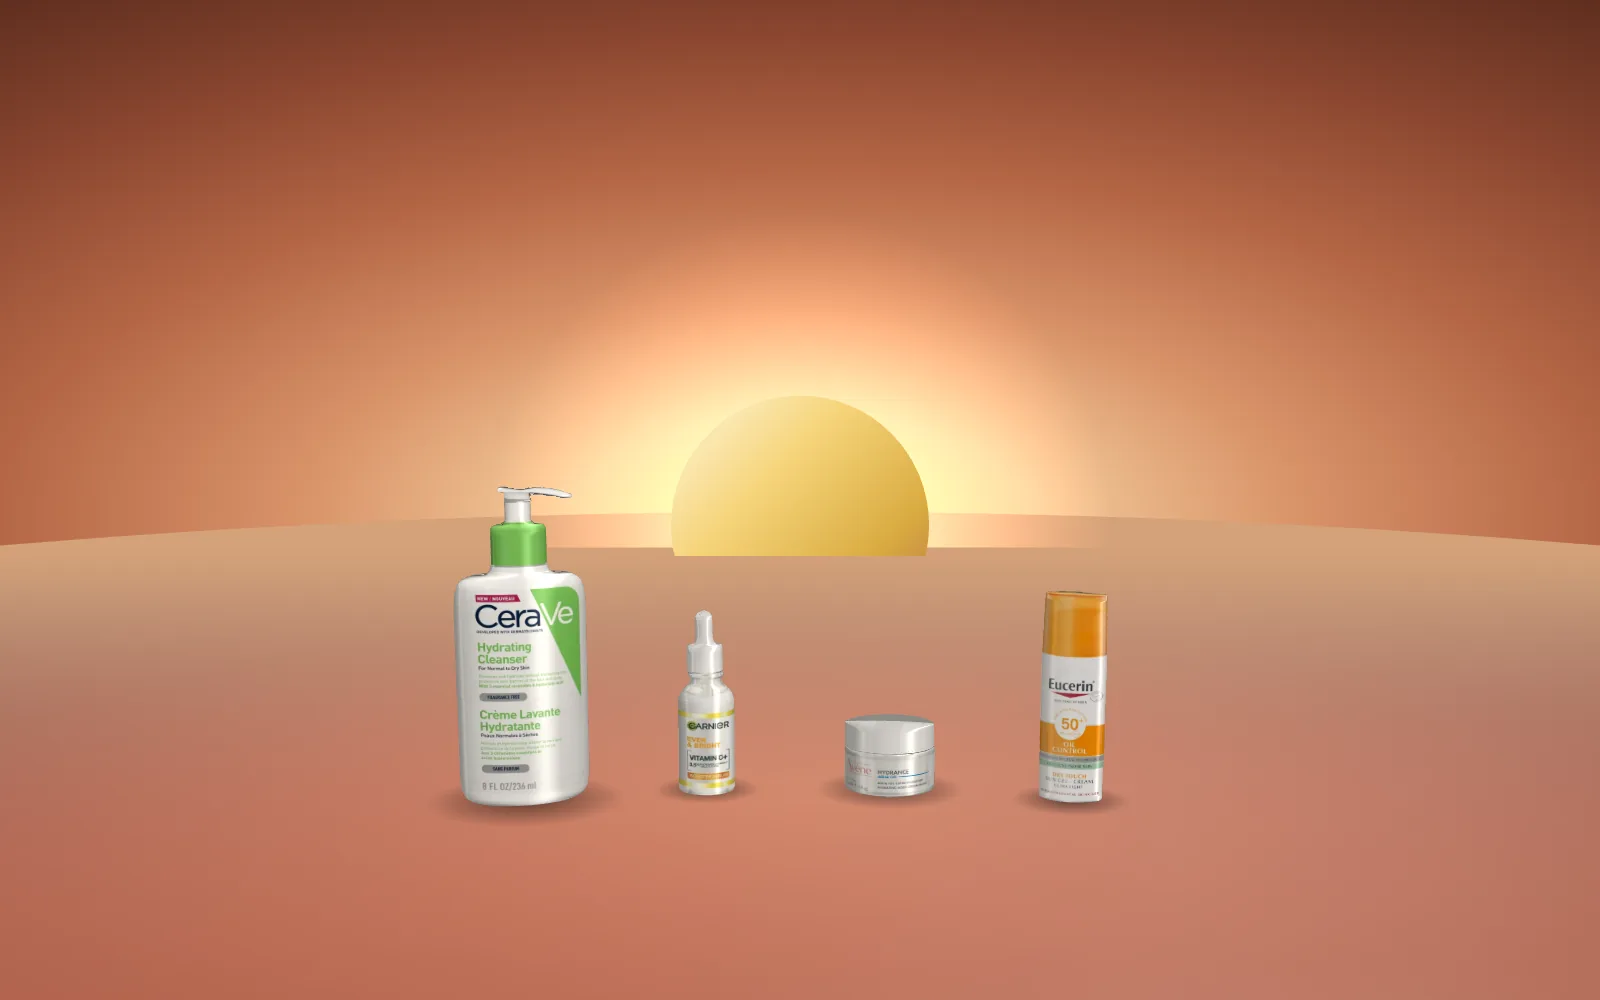
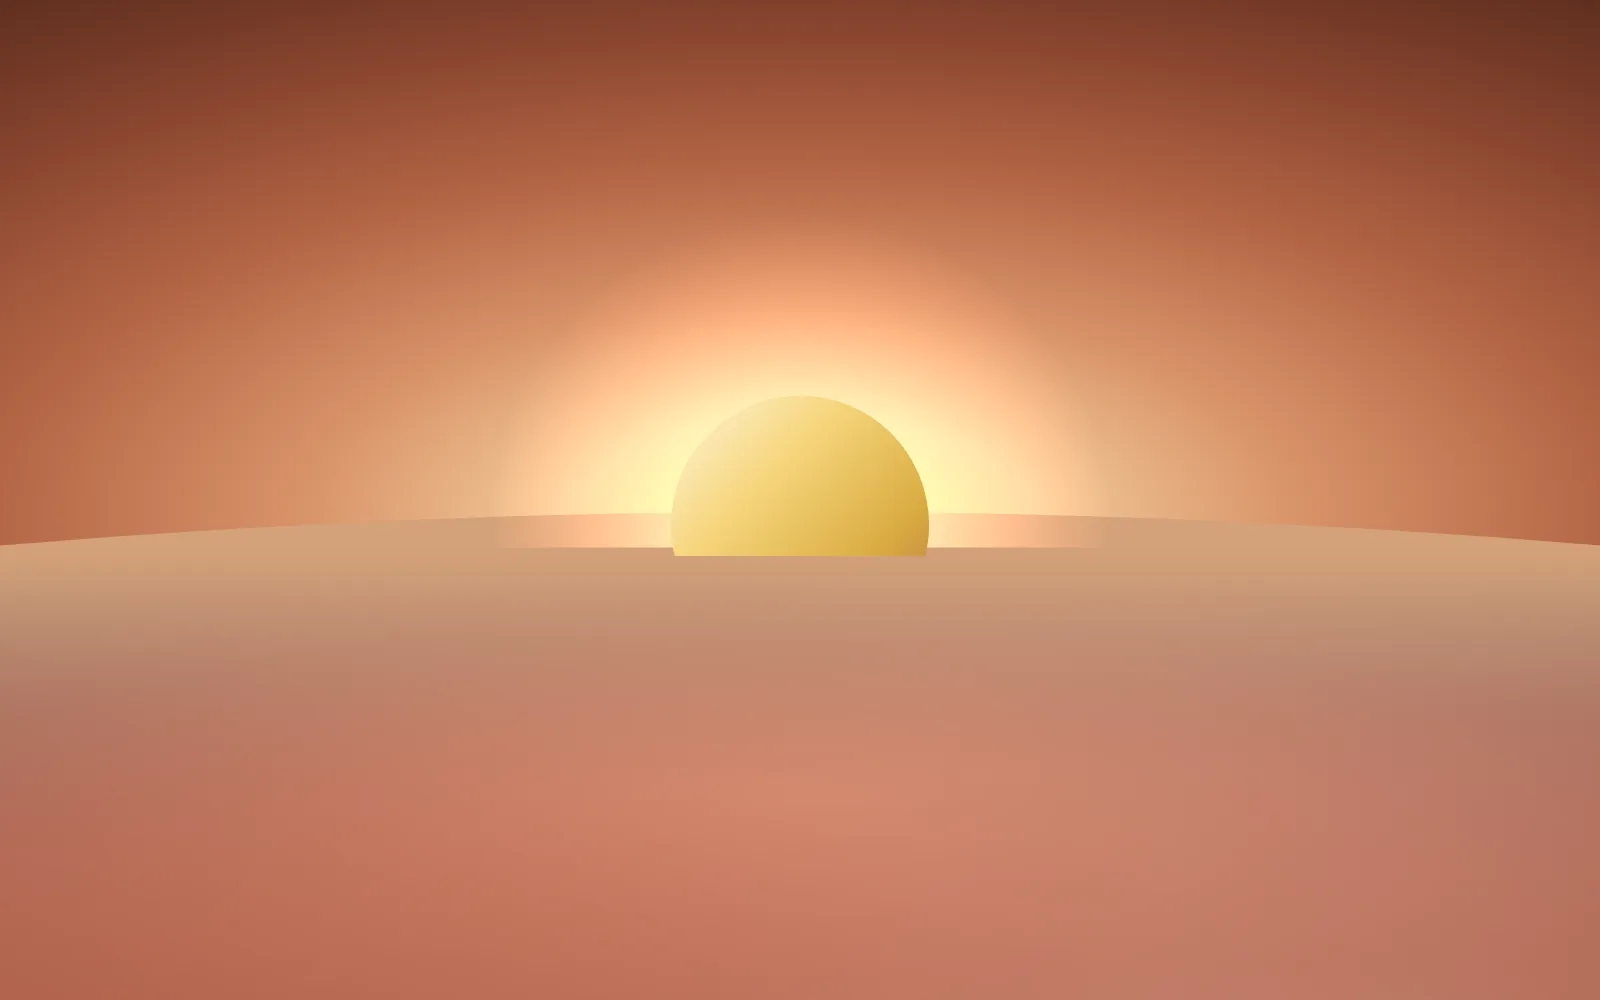
Take the four products off the cover
Claude-Session: https://claude.ai/code/session_01KMs4NPwcWgvPGFoYvY91uh

diff --git a/cover.js b/cover.js
@@ -1,11 +1,10 @@
 /* =========================================================
-   NexEra Skin cover: "Your routine, in four steps", in 3D.
-   A drop (the dot from the NexEra logo) falls, the four featured products
-   (solid packs made from the real product photos, stock only, in their real
-   relative sizes) rise one by one and each does a small move,
+   NexEra Skin cover, in 3D: a drop (the dot from the NexEra logo) falls,
    the sun rises, and NEXERA grows out of it.
+   (The four products were taken off the cover at the owner's request,
+   2026-11-22: they looked artificial. The scroll story keeps its 3D packs.)
    ========================================================= */
-import { THREE, makeRenderer, makeScene, makeShadow, packProduct, packOf, tint } from './studio.js';
+import { THREE, makeRenderer, makeScene } from './studio.js';
 
 const gsap = window.gsap, ScrollTrigger = window.ScrollTrigger;
 const $ = (s, c) => (c || document).querySelector(s);
@@ -14,19 +13,15 @@ const lerp = (a, b, t) => a + (b - a) * t;
 const clamp01 = t => Math.min(1, Math.max(0, t));
 const ease = t => 1 - Math.pow(1 - t, 3);
 
-const DATA = window.NEXERA_SKIN;
 /* Colours: golden hour in terracotta, nude, cream and gold. */
 const C = {
   fogNight: '#3a1d15', fogDawn: '#e3ad82', floorTint: '#ffd2ad', floorMetal: 0.12,
   floor: [[0, '#8a5038'], [0.4, '#61341f'], [1, '#3a1e13']],
   sun: [[0, '#fff6dc'], [0.35, '#f6d47a'], [0.7, '#d9ab41'], [1, '#b46645']],
   glow: [[0, 'rgba(246,212,122,0.9)'], [0.35, 'rgba(242,202,153,0.4)'], [1, 'rgba(180,102,69,0)']],
-  ripple: '#f2ca99', drip: '#d9ab41', dripGlow: '#f2b45a',
-  rim: [0.78, 0.6, 0.52, 0.42], night: [0.55, 0.46, 0.42]
+  ripple: '#f2ca99',
+  rim: [0.78, 0.6, 0.52, 0.42]
 };
-const STEP = {}; DATA.STEPS.forEach(s => { STEP[s.id] = s; });
-/* one featured product per step, in routine order */
-const SPECS = DATA.FEATURED.map(p => ({ p, n: STEP[p.step].n, name: STEP[p.step].name }));
 
 function gradientTexture(stops, radial) {
   const c = document.createElement('canvas'); c.width = c.height = 256;
@@ -75,21 +70,7 @@ export async function start(hero, opts = {}) {
   dropGlow.scale.set(2.2, 2.2, 1); drop.add(dropGlow, dropBall); scene.add(drop);
 
   const ringMat = () => new THREE.MeshBasicMaterial({ color: C.ripple, transparent: true, opacity: 0, blending: THREE.AdditiveBlending, depthWrite: false, toneMapped: false });
-  const ripples = [0, 1, 2, 3, 4].map(() => { const m = new THREE.Mesh(new THREE.RingGeometry(0.92, 1, 72), ringMat()); m.rotation.x = -Math.PI / 2; m.position.y = 0.01; scene.add(m); return m; });
-
-  /* real relative sizes: the tallest pack is 4.3 units, the others follow their size in mm */
-  const tallest = Math.max(...SPECS.map(spec => (packOf(spec.p).dims || { h: 150 }).h));
-  const stands = await Promise.all(SPECS.map(spec => packProduct(spec.p, { mmScale: 4.3 / tallest, height: 3 })));
-  const items = SPECS.map((spec, i) => {
-    const stand = stands[i], prod = stand.userData.product;
-    const holder = new THREE.Group(); holder.add(stand); scene.add(holder);
-    const shadow = makeShadow(Math.max(stand.userData.width, stand.userData.depth) * 0.62 + 0.25, 0.55); scene.add(shadow);
-    return { spec, stand, prod, holder, shadow, h: stand.userData.height, base: new THREE.Vector3(), scale: 1, rest: 0 };
-  });
-  const bubbleMat = new THREE.MeshPhysicalMaterial({ color: '#ffffff', roughness: 0.05, transparent: true, opacity: 0.75, clearcoat: 1, transmission: 0 });
-  const bubbles = [0, 1, 2, 3].map(i => { const b = new THREE.Mesh(new THREE.SphereGeometry(0.09 + i * 0.025, 20, 20), bubbleMat); b.visible = false; scene.add(b); return b; });
-  const drip = new THREE.Mesh(new THREE.SphereGeometry(0.075, 20, 20), new THREE.MeshPhysicalMaterial({ color: C.drip, emissive: C.dripGlow, emissiveIntensity: 0.3, roughness: 0.1, clearcoat: 1 }));
-  drip.visible = false; scene.add(drip);
+  const ripples = [0].map(() => { const m = new THREE.Mesh(new THREE.RingGeometry(0.92, 1, 72), ringMat()); m.rotation.x = -Math.PI / 2; m.position.y = 0.01; scene.add(m); return m; });
 
   /* ----- layout for phones (portrait) and wider screens ----- */
   const g = { W: 1, H: 1, portrait: false, target: new THREE.Vector3(), d: 20 };
@@ -97,13 +78,11 @@ export async function start(hero, opts = {}) {
     wide: { x: [-3.75, -1.3, 1.25, 3.7], z: [0.2, -0.35, -0.35, 0.2], s: [1, 1, 1, 1], rest: [0.3, 0.12, -0.12, -0.3], screenY: 0.665, fill: 0.31 },
     tall: { x: [-2.25, -0.78, 0.75, 2.25], z: [0.25, -0.2, -0.25, 0.25], s: [0.6, 0.6, 0.6, 0.6], rest: [0.3, 0.12, -0.12, -0.3], screenY: 0.61, fill: 0.2 }
   };
-  const stepEls = $$('.hero__step', hero);
   function layout() {
     g.W = hero.clientWidth; g.H = hero.clientHeight; g.portrait = g.W / g.H < 0.8;
     renderer.setSize(g.W, g.H, false);
     cam.aspect = g.W / g.H;
     const L = g.portrait ? LAYOUT.tall : LAYOUT.wide;
-    items.forEach((it, i) => { it.base.set(L.x[i], 0, L.z[i]); it.scale = L.s[i]; it.rest = L.rest[i]; it.holder.scale.setScalar(it.scale); });
     const rowW = (g.portrait ? 6.0 : 9.2), prodH = 4.4 * (g.portrait ? 0.64 : 1);
     const vt = Math.tan(THREE.MathUtils.degToRad(cam.fov / 2));
     const dH = prodH / L.fill / (2 * vt), dW = rowW * 1.12 / (2 * vt * cam.aspect);
@@ -134,21 +113,15 @@ export async function start(hero, opts = {}) {
   function toScreen(v) { const p = v.clone().project(cam); return { x: (p.x + 1) / 2 * g.W, y: (1 - p.y) / 2 * g.H }; }
 
   /* ----- state the timeline animates ----- */
-  const S = { fall: 0, land: 0, rise: [0, 0, 0, 0], label: [0, 0, 0, 0], press: 0, bubbles: 0, lift: 0, dripT: 0, lid: 0, hop: 0, sun: 0, warm: 0, settle: 0, flood: 0, exit: 0, ripple: [0, 0, 0, 0, 0] };
+  const S = { fall: 0, land: 0, sun: 0, warm: 0, settle: 0, flood: 0, ripple: [0] };
   let t0 = performance.now();
 
   function draw(now) {
-    const t = (now - t0) / 1000;
-    const idle = S.settle;
-
     /* light warms as the sun rises */
     skyDawn.style.opacity = S.warm.toFixed(3);
     scene.fog.color.copy(fogNight).lerp(fogDawn, S.warm * 0.85);
     rim.intensity = 1.2 + S.warm * 1.6; rim.color.setRGB(1, lerp(C.rim[0], C.rim[1], S.warm), lerp(C.rim[2], C.rim[3], S.warm));
     key.intensity = 1.3 + S.warm * 0.4;
-    /* the photos are dim and blue at night and take on the morning light */
-    const w = S.warm;
-    items.forEach(it => tint(it.stand, lerp(C.night[0], 1, w), lerp(C.night[1], 0.985, w), lerp(C.night[2], 0.955, w)));
 
     /* the drop */
     drop.visible = S.fall > 0 && S.land < 1;
@@ -157,55 +130,13 @@ export async function start(hero, opts = {}) {
       const sq = S.land; drop.scale.set(1 + sq * 1.4, Math.max(0.02, 1 - sq * 0.97), 1 + sq * 1.4);
       dropGlow.material.opacity = 1 - sq;
     }
-    /* ripples: 0 is the drop, 1 to 4 are the products */
+    /* the drop's ripple */
     ripples.forEach((r, i) => {
-      const k = S.ripple[i], pos = i === 0 ? new THREE.Vector3(0, 0, 0.6) : items[i - 1].base;
-      r.position.set(pos.x, 0.012, pos.z);
-      r.scale.setScalar(0.2 + k * (i === 0 ? 7 : 2.6));
+      const k = S.ripple[i];
+      r.position.set(0, 0.012, 0.6);
+      r.scale.setScalar(0.2 + k * 7);
       r.material.opacity = k > 0 && k < 1 ? (1 - k) * 0.9 : 0;
     });
-
-    /* the products */
-    items.forEach((it, i) => {
-      const r = S.rise[i], e = ease(r);
-      const spread = 1 + S.exit * 0.5;
-      const bob = 0; /* the packs rest still once they have risen */
-      it.holder.position.set(it.base.x * spread, lerp(-6, 0, e) + bob + S.exit * (3 + i * 0.6), it.base.z);
-      it.holder.scale.setScalar(it.scale);
-      it.prod.rotation.set(0, lerp(-2.2, it.rest, e) + S.exit * (i % 2 ? 0.8 : -0.8), 0);
-      it.holder.visible = r > 0.001;
-      it.shadow.position.set(it.base.x * spread, 0.006, it.base.z);
-      it.shadow.material.opacity = 0.55 * e * (1 - S.exit);
-      it.shadow.scale.setScalar(it.scale * (1 - Math.min(0.4, bob * 2)));
-    });
-    /* 01 cleanse: the bottle gives a squeeze and foam bubbles float up from the top */
-    const cl = items[0], sq = Math.sin(Math.PI * S.press);
-    cl.stand.scale.set(1 + sq * 0.05, 1 - sq * 0.08, 1 + sq * 0.05);
-    const top = new THREE.Vector3(cl.holder.position.x + 0.25 * cl.scale, cl.holder.position.y + cl.h * cl.scale + 0.05, cl.holder.position.z);
-    bubbles.forEach((b, i) => {
-      const k = clamp01(S.bubbles * 1.6 - i * 0.18);
-      b.visible = k > 0 && k < 1;
-      b.position.set(top.x + Math.sin(k * 6 + i) * 0.18 + i * 0.08, top.y + k * (1.6 + i * 0.3), top.z);
-      b.scale.setScalar((0.6 + k * 0.8) * cl.scale);
-    });
-    /* 02 treat: the serum lifts and tips, and a drop falls to the floor */
-    const tr = items[1];
-    tr.holder.position.y += S.lift * 0.9 * tr.scale;
-    tr.prod.rotation.z = -S.lift * 0.22;
-    if (S.dripT > 0 && S.dripT < 1) {
-      drip.visible = true;
-      const fall = S.dripT * S.dripT, from = tr.holder.position.y + 0.1;
-      drip.position.set(tr.holder.position.x + 0.15 * tr.scale, lerp(from, 0.08, fall), tr.holder.position.z + 0.3);
-      drip.scale.setScalar(tr.scale * (S.dripT < 0.12 ? S.dripT / 0.12 : 1));
-    } else drip.visible = false;
-    /* 03 moisturise: the jar lifts and turns a full circle */
-    const mo = items[2], lk = Math.min(1, S.lid);
-    mo.holder.position.y += Math.sin(lk * Math.PI / 2) * 0.55 * mo.scale * (S.lid > 1 ? 2 - S.lid : 1);
-    /* (no full turn: the jar only lifts) */
-    /* 04 protect: the sunscreen hops and spins as the sun comes up */
-    const tb = items[3];
-    tb.holder.position.y += Math.sin(Math.PI * S.hop) * 0.9;
-    /* (no spin: the sunscreen only hops) */
 
     /* the sun */
     sun.position.lerpVectors(g.sunStart, g.sunEnd, ease(S.sun));
@@ -214,20 +145,12 @@ export async function start(hero, opts = {}) {
     sunGlow.material.opacity = S.sun;
     sun.lookAt(cam.position);
 
-    /* camera: a slow push in when the products settle, and a little parallax on a laptop */
+    /* camera: a slow push in as the scene settles */
     const push = 1 - S.settle * 0.06;
     cam.position.set(g.target.x, g.target.y + g.d * 0.2 * push, g.d * push);
     cam.lookAt(g.target.x, g.target.y, 0);
 
     renderer.render(scene, cam);
-
-    /* step labels under each product */
-    items.forEach((it, i) => {
-      const el = stepEls[i]; if (!el) return;
-      const p = toScreen(new THREE.Vector3(it.holder.position.x, -0.2, it.base.z));
-      el.style.transform = `translate(-50%, 0) translate(${p.x.toFixed(1)}px, ${(p.y + 10).toFixed(1)}px)`;
-      el.style.opacity = (S.label[i] * (1 - S.exit)).toFixed(3);
-    });
 
     /* the paper flood that carries you into the page */
     if (S.flood > 0.001) {
@@ -245,7 +168,7 @@ export async function start(hero, opts = {}) {
     raf = 0;
     draw(now);
     if (firstFrame) { firstFrame = false; hero.classList.add('is-3d'); }
-    const busy = (tl && tl.isActive()) || (greet && greet.isActive()) || now < awakeUntil;
+    const busy = (tl && tl.isActive()) || now < awakeUntil;
     if (running && busy) raf = requestAnimationFrame(frame); else running = false;
   }
   function wake(ms) { awakeUntil = Math.max(awakeUntil, performance.now() + (ms || 2500)); startLoop(); }
@@ -263,11 +186,10 @@ export async function start(hero, opts = {}) {
     wordWrap: $('.hero__word-wrap', hero), word: $('.word', hero), letters: $$('.word__l', hero), copy: $('.hero__copy', hero),
     ctas: $$('.hero__ctas .btn', hero), skip: $('.hero__skip', hero), skipLabel: $('.hero__skip-label', hero), scroll: $('.hero__scroll', hero), nav: $('#nav')
   };
-  let tl = null, ended = false, greet = null;
+  let tl = null, ended = false;
 
   function finalState() {
-    S.fall = 1; S.land = 1; S.rise = [1, 1, 1, 1]; S.label = [1, 1, 1, 1]; S.press = 0; S.bubbles = 0; S.lift = 0; S.dripT = 0; S.lid = 0; S.hop = 0;
-    S.sun = 1; S.warm = 1; S.settle = 1; S.ripple = [0, 0, 0, 0, 0];
+    S.fall = 1; S.land = 1; S.sun = 1; S.warm = 1; S.settle = 1; S.ripple = [0];
   }
   function kicker(text) { if (els.kickerText.textContent !== text) els.kickerText.textContent = text; }
 
@@ -296,38 +218,19 @@ export async function start(hero, opts = {}) {
       .fromTo(S, { fall: 0, land: 0 }, { fall: 1, duration: 0.7, ease: 'power1.in' }, 0.2)
       .to(S, { land: 1, duration: 0.25, ease: 'power2.out' }, 0.9)
       .fromTo(S.ripple, { 0: 0 }, { 0: 1, duration: 1.4, ease: 'power2.out' }, 0.9);
-    /* the four products, one after another */
-    SPECS.forEach((spec, i) => {
-      const at = 1.0 + i * 1.05;
-      tl.fromTo(S.rise, { [i]: 0 }, { [i]: 1, duration: 0.95, ease: 'back.out(1.25)' }, at)
-        .fromTo(S.ripple, { [i + 1]: 0 }, { [i + 1]: 1, duration: 1.1, ease: 'power2.out' }, at)
-        .fromTo(S.label, { [i]: 0 }, { [i]: 1, duration: 0.5 }, at + 0.35)
-        .call(() => kicker(spec.n + ' · ' + spec.name), null, at + 0.1);
-    });
-    tl.call(() => kicker('01 · Cleanse'), null, 1.1)
-      .to(S, { press: 1, duration: 0.5, ease: 'power1.inOut' }, 1.55)
-      .fromTo(S, { bubbles: 0 }, { bubbles: 1, duration: 1.6, ease: 'none' }, 1.7)
-      .to(S, { lift: 1, duration: 0.45, ease: 'power2.out' }, 2.55)
-      .fromTo(S, { dripT: 0 }, { dripT: 1, duration: 0.55, ease: 'power1.in' }, 3.0)
-      .to(S, { lift: 0, duration: 0.4, ease: 'power2.in' }, 3.45)
-      .to(S, { lid: 1, duration: 0.7, ease: 'power2.out' }, 3.45)
-      .to(S, { lid: 2, duration: 0.55, ease: 'power2.in' }, 4.55)
-      .to(S, { hop: 1, duration: 0.9, ease: 'power1.inOut' }, 4.55)
-      .to(S, { sun: 1, duration: 1.8, ease: 'power2.out' }, 4.4)
-      .to(S, { warm: 1, duration: 2, ease: 'power1.inOut' }, 4.2)
-      .to(S, { settle: 1, duration: 1.4, ease: 'power2.inOut' }, 5.2)
+    tl.to(S, { sun: 1, duration: 1.8, ease: 'power2.out' }, 1.4)
+      .to(S, { warm: 1, duration: 2, ease: 'power1.inOut' }, 1.2)
+      .to(S, { settle: 1, duration: 1.4, ease: 'power2.inOut' }, 2.2)
       /* NEXERA grows out of the sun */
-      .fromTo(els.word, { x: wordFrom('x'), y: wordFrom('y'), scale: 0.04, autoAlpha: 0 }, { x: 0, y: 0, scale: 1, autoAlpha: 1, duration: 1.3, ease: 'expo.out', immediateRender: true }, 5.45)
-      .fromTo(els.letters, { yPercent: 45, opacity: 0 }, { yPercent: 0, opacity: 1, duration: 0.8, stagger: 0.06, ease: 'power3.out' }, 5.5)
-      .fromTo(els.copy, { autoAlpha: 0, y: 16 }, { autoAlpha: 1, y: 0, duration: 0.7 }, 6.15)
-      .fromTo(els.ctas, { autoAlpha: 0, y: 16 }, { autoAlpha: 1, y: 0, duration: 0.7, stagger: 0.08 }, 6.3)
-      .fromTo(els.scroll, { autoAlpha: 0 }, { autoAlpha: 1, duration: 0.6 }, 6.6)
-      .call(() => kicker('Skincare store · South Africa'), null, 6.4)
-      .call(onEnd, null, 7.0);
+      .fromTo(els.word, { x: wordFrom('x'), y: wordFrom('y'), scale: 0.04, autoAlpha: 0 }, { x: 0, y: 0, scale: 1, autoAlpha: 1, duration: 1.3, ease: 'expo.out', immediateRender: true }, 2.45)
+      .fromTo(els.letters, { yPercent: 45, opacity: 0 }, { yPercent: 0, opacity: 1, duration: 0.8, stagger: 0.06, ease: 'power3.out' }, 2.5)
+      .fromTo(els.copy, { autoAlpha: 0, y: 16 }, { autoAlpha: 1, y: 0, duration: 0.7 }, 3.15)
+      .fromTo(els.ctas, { autoAlpha: 0, y: 16 }, { autoAlpha: 1, y: 0, duration: 0.7, stagger: 0.08 }, 3.3)
+      .fromTo(els.scroll, { autoAlpha: 0 }, { autoAlpha: 1, duration: 0.6 }, 3.6)
+      .call(onEnd, null, 4.0);
   }
 
   function replay() {
-    Object.assign(S, { press: 0, bubbles: 0, lift: 0, dripT: 0, lid: 0, hop: 0 });
     if (!tl) build();
     ended = false;
     els.skipLabel.textContent = 'Skip intro';
@@ -357,20 +260,6 @@ export async function start(hero, opts = {}) {
   els.skip.setAttribute('aria-label', 'Play the intro');
   els.skip.hidden = false;
   frame(performance.now());
-  if (autoplay && window.scrollY < 8) {
-    /* each product makes its small move once, in under 3.5 s */
-    wake(3800);
-    /* the loop keeps drawing while this runs (on a slow phone GSAP's clock can run behind real time) */
-    greet = gsap.timeline({ delay: 0.6, defaults: { ease: 'power2.out' }, onStart: () => wake(600), onComplete: () => wake(300) })
-      .to(S, { press: 1, duration: 0.5, ease: 'power1.inOut' }, 0)
-      .fromTo(S, { bubbles: 0 }, { bubbles: 1, duration: 1.4, ease: 'none' }, 0.15)
-      .to(S, { lift: 1, duration: 0.45 }, 0.8)
-      .fromTo(S, { dripT: 0 }, { dripT: 1, duration: 0.55, ease: 'power1.in' }, 1.25)
-      .to(S, { lift: 0, duration: 0.4, ease: 'power2.in' }, 1.7)
-      .to(S, { lid: 1, duration: 0.6 }, 1.7)
-      .to(S, { lid: 2, duration: 0.5, ease: 'power2.in' }, 2.3)
-      .to(S, { hop: 1, duration: 0.8, ease: 'power1.inOut' }, 2.1);
-  }
   wake(1500);
   if (/[?&]debug\b/.test(location.search)) window.__nexCover = { tl: () => tl, S, draw: () => frame(performance.now()) };
   startLoop();
@@ -393,7 +282,6 @@ export async function start(hero, opts = {}) {
   gsap.timeline({ scrollTrigger: { trigger: hero, start: 'top top', end: '+=65%', pin: true, scrub: true, refreshPriority: 10 }, onUpdate: () => wake(400) })
     .to(els.ui, { opacity: 0, duration: 0.45, ease: 'power1.in' }, 0)
     .to(els.wordWrap, { scale: 1.35, duration: 0.55, ease: 'power1.in' }, 0)
-    .to(S, { exit: 1, duration: 0.8, ease: 'power1.in' }, 0)
     .to(S, { flood: 1, duration: 1, ease: 'power2.in' }, 0);
   ScrollTrigger.sort();
   ScrollTrigger.refresh();

diff --git a/styles.css b/styles.css
@@ -137,10 +137,6 @@ button { font: inherit; color: inherit; }
 .hero__canvas { width: 100%; height: 100%; display: block; opacity: 0; transition: opacity .6s var(--ease); }
 .hero.is-3d .hero__canvas { opacity: 1; }
 .hero.is-3d .hero__poster { opacity: 0; }
-.hero__steps { position: absolute; inset: 0; pointer-events: none; display: none; }
-.hero.is-3d .hero__steps { display: block; }
-.hero__step { position: absolute; left: 0; top: 0; opacity: 0; display: flex; align-items: center; gap: 8px; font-family: var(--f-body); font-size: var(--t-s); color: var(--cream); white-space: nowrap; transform: translate(-50%, 0); }
-.hero__step b { font-family: var(--f-mono); font-weight: 500; color: #f2ca99; font-variant-numeric: tabular-nums; }
 .hero__ui { z-index: 2; pointer-events: none; }
 /* a soft shade behind the words at the bottom, so they stay readable on the warm floor */
 .hero__ui::before, .hero__ui::after { content: ''; position: absolute; left: 0; right: 0; z-index: -1; pointer-events: none; }
@@ -172,8 +168,7 @@ button { font: inherit; color: inherit; }
   .hero__scroll { display: none; }
   .hero__poster { object-position: 50% 50%; }
 }
-.is-poster .hero__ui, .is-poster .hero__steps, .is-poster .flood { display: none !important; }
-@media (max-aspect-ratio: 4/5) { .hero__step { flex-direction: column; gap: 2px; font-size: var(--t-s); text-align: center; } }
+.is-poster .hero__ui, .is-poster .flood { display: none !important; }
 .skin .sk-ray { stroke-dasharray: 1; }
 @media (max-width: 420px) { .hero__ctas { width: 100%; } .hero__ctas .btn { flex: 1 1 0; padding: 0 16px; } }
 @media (max-height: 600px) and (min-aspect-ratio: 4/5) { .hero__scroll { display: none; } .hero__line { font-size: var(--t-m); } }
@@ -185,8 +180,7 @@ button { font: inherit; color: inherit; }
 .word { color: var(--w-cream); text-shadow: 0 0 80px rgba(217, 171, 65, .45), 0 2px 24px rgba(90, 40, 25, .25), 0 8px 32px rgba(42, 21, 15, .35); }
 .hero__kicker, .hero__scroll { color: var(--w-cream); }
 .hero__dot { background: var(--w-gold); }
-.hero__step { color: var(--w-cream); font-size: var(--t-s); text-shadow: 0 1px 2px rgba(36, 21, 15, .6), 0 1px 12px rgba(36, 21, 15, .5); }
-.hero__step b, .hero__slogan { color: #f8dfba; }
+.hero__slogan { color: #f8dfba; }
 .hero .btn--dawn { background: linear-gradient(120deg, #e6bd57 0%, var(--w-gold) 45%, #c98a4a 100%); color: #2a160e; box-shadow: 0 10px 30px -12px rgba(140, 80, 30, .7); }
 .hero .btn--ghost { color: var(--w-cream); border-color: rgba(246, 240, 224, .36); background: rgba(36, 18, 12, .5); }
 .hero__skip, .hero__skip.is-replay { border-color: rgba(246, 240, 224, .36); background: rgba(36, 18, 12, .5); color: var(--w-cream); }

diff --git a/index.html b/index.html
@@ -17,7 +17,7 @@
   <meta property="og:image" content="https://mangalisojames2008-pixel.github.io/nexera-fitness/assets/og.jpg">
   <meta property="og:image:width" content="1200">
   <meta property="og:image:height" content="630">
-  <meta property="og:image:alt" content="CeraVe, Garnier, Avène and Eucerin products in morning light under the word NEXERA.">
+  <meta property="og:image:alt" content="The word NEXERA above a sun rising over a warm horizon.">
   <meta name="twitter:card" content="summary_large_image">
   <meta name="twitter:title" content="NexEra Skin | Garnier, CeraVe, Eucerin and Avène">
   <meta name="twitter:description" content="Explore the range in 3D, build your order list and send it to NexEra by email.">
@@ -135,12 +135,6 @@
           <img class="hero__poster" src="assets/cover-poster.webp" alt="" width="1600" height="1000" fetchpriority="high">
         </picture>
         <canvas class="hero__canvas"></canvas>
-        <div class="hero__steps">
-          <p class="hero__step"><b>01</b>Cleanse</p>
-          <p class="hero__step"><b>02</b>Treat</p>
-          <p class="hero__step"><b>03</b>Moisturise</p>
-          <p class="hero__step"><b>04</b>Protect</p>
-        </div>
       </div>
 
       <div class="hero__ui">
@@ -166,7 +160,7 @@
 
       <div class="flood" aria-hidden="true"></div>
       <div class="hero__fade" aria-hidden="true"></div>
-      <p class="sr-only">Animation: a drop falls and four products rise one after another: CeraVe Hydrating Cleanser with foam bubbles, Garnier Even &amp; Bright Vitamin C Day Booster Serum that lets a drop fall, Avène Hydrance Aqua-Gel that turns, and Eucerin Sun Face Oil Control Gel-Cream SPF50+ with the sun rising behind it. Then the word NexEra grows out of the sun.</p>
+      <p class="sr-only">Animation: a drop falls, the sun rises, and the word NexEra grows out of it.</p>
     </section>
 
     <!-- ================= THE ROUTINE, SCROLL STORY: one stock product per step ================= -->
